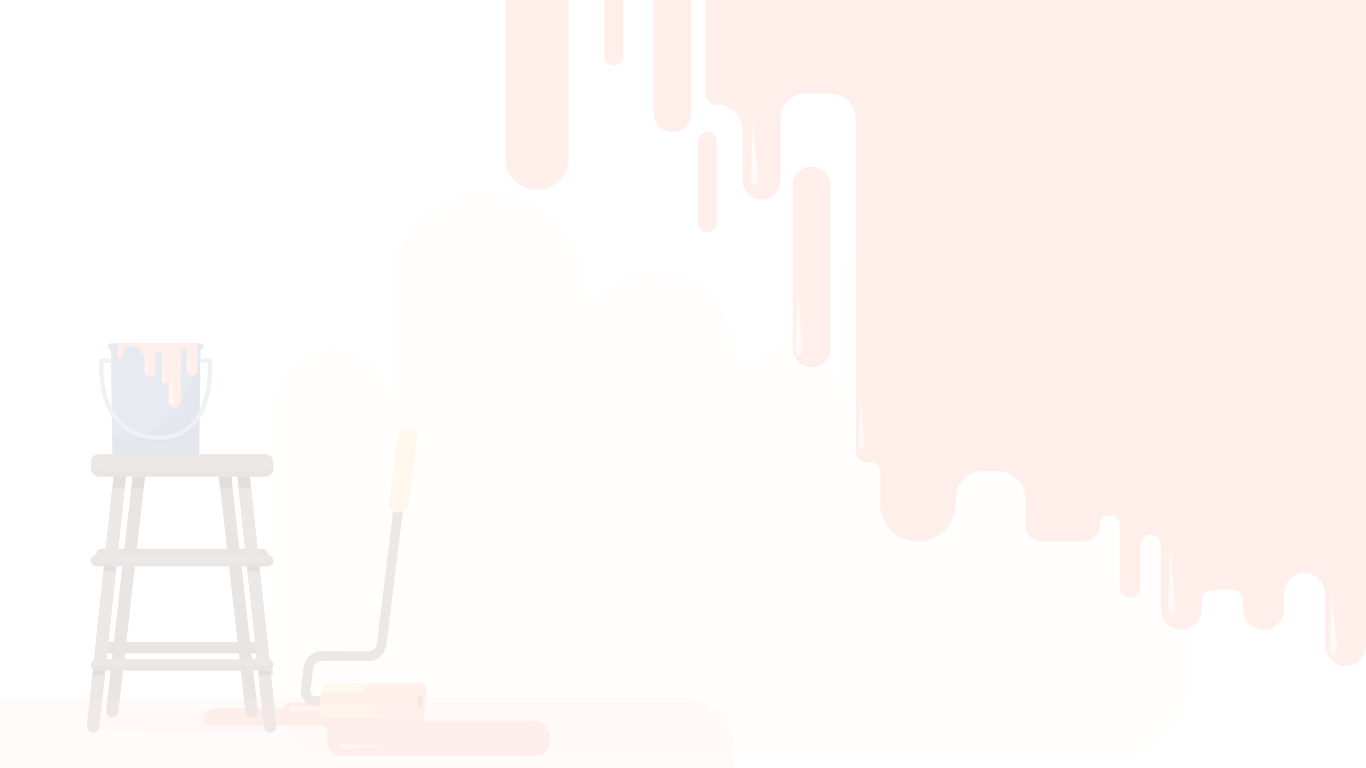
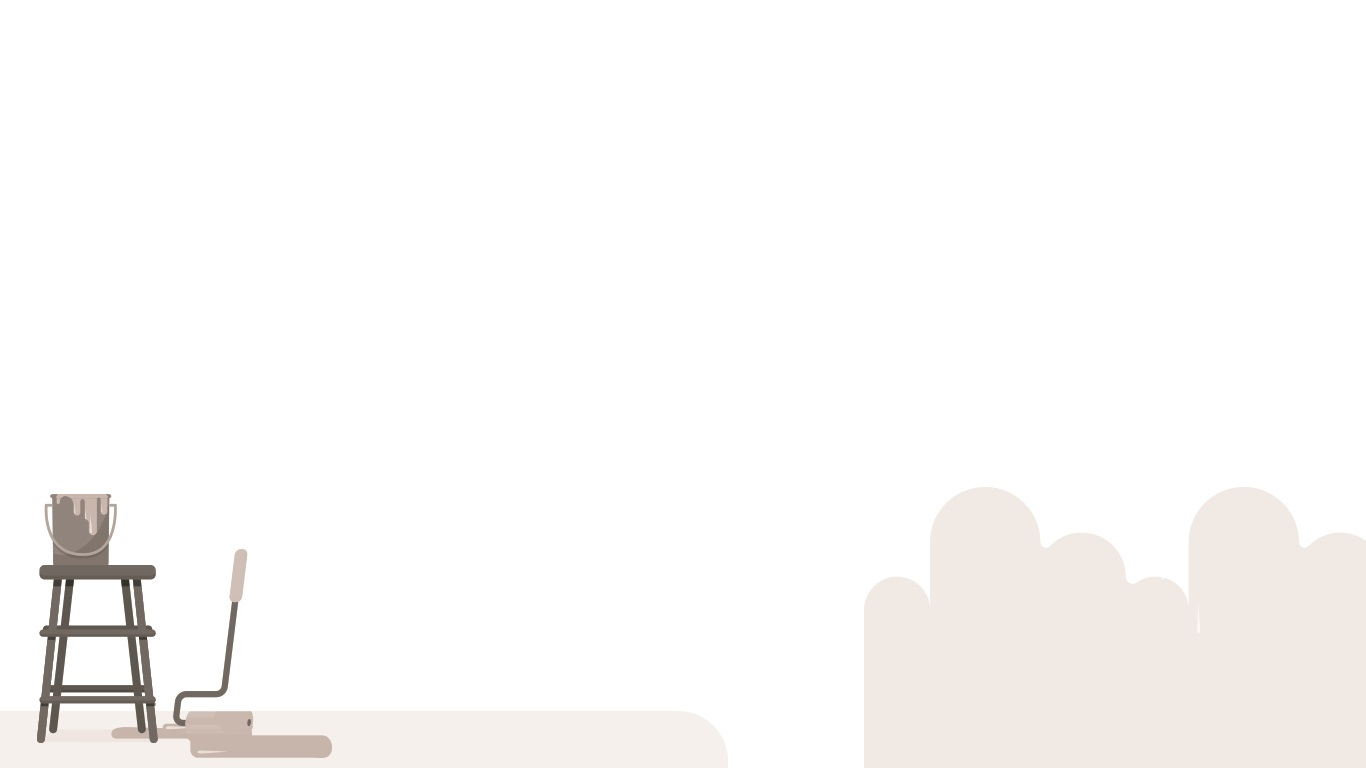
Perbaikan desain

diff --git a/public/css/style.css b/public/css/style.css
@@ -1,7 +1,20 @@
 body {
     background: url('../img/bg-main.jpg') no-repeat;
-    background-position: center;
+    background-position: bottom;
     background-size: cover;
+    background-attachment: fixed;
+}
+
+.navbar-nav .nav-item {
+    color: rgb(73, 73, 73) !important;
+}
+
+.navbar-nav a:hover {
+    border-bottom: 2px solid #3498db;
+}
+
+.navbar-trans {
+    background-color: rgba(255, 255, 255, 0.6) !important;
 }
 
 /* card */
@@ -47,13 +60,16 @@ body {
     float: left;
     width: 50%;
     height: 400px;
-    background: url('/img/bg-cab.jpg');
+    background: url('../img/bg-main2.jpg') no-repeat;
+    background-position: bottom;
+    background-size: cover;
     background-repeat: no-repeat;
     background-size: cover;
     background-position: center;
     display: grid;
     align-items: center;
     padding: 2%;
+    color: #fff;
 }
 
 .col-pnm {

diff --git a/resources/views/frontend/score-detail.blade.php b/resources/views/frontend/score-detail.blade.php
@@ -5,9 +5,9 @@
 @section('content')
     <div class="container" style="margin-top:2%">
         <div class="row">
-            <div class="co-12">
-                <h1 class="display-4">Scoreboard Penjualan</h1>
-                <p class="lead">Update Terakhir : {{ date('d F Y, H:i:s', strtotime($setting->last_update_score)) }}</p>
+            <div class="co-12 font-weight-bold">
+                <h1 class="display-4 font-weight-bold">Scoreboard Penjualan</h1>
+                <p class="lead font-weight-bold">Update Terakhir : {{ date('d F Y, H:i:s', strtotime($setting->last_update_score)) }}</p>
                 
                 <!-- last update -->
                 @if($diff > 0)

diff --git a/resources/views/frontend/score.blade.php b/resources/views/frontend/score.blade.php
@@ -5,9 +5,9 @@
 @section('content')
     <div class="container" style="margin-top:2%">
         <div class="row">
-            <div class="co-12">
-                <h1 class="display-4">Scoreboard Penjualan</h1>
-                <p class="lead">Update Terakhir : {{ date('d F Y, H:i:s', strtotime($setting->last_update_score)) }}</p>
+            <div class="co-12 font-weight-bold">
+                <h1 class="display-4 font-weight-bold">Scoreboard Penjualan</h1>
+                <p class="lead font-weight-bold">Update Terakhir : {{ date('d F Y, H:i:s', strtotime($setting->last_update_score)) }}</p>
                 
                 <!-- last update -->
                 @if($diff > 0)

diff --git a/resources/views/frontend/login.blade.php b/resources/views/frontend/login.blade.php
@@ -46,8 +46,8 @@
                 </div>
                 <div class="box-right">
                     <div class="text-custom">
-                        <h3 class="display-4">PORTAL CWJA</h3>
-                        <p class="lead text-bold">PT. CITRA WARNA JAYA ABADI</p>
+                        <h3 class="display-3 font-weight-bold" style="font-size:4em">PORTAL CWJA</h3>
+                        <p class="lead text-bold" style="">PT. CITRA WARNA JAYA ABADI</p>
                     </div>
                 </div>
             </div>

diff --git a/resources/views/frontend/index.blade.php b/resources/views/frontend/index.blade.php
@@ -6,7 +6,7 @@
     <div class="container" style="margin-top:2%">
         <div class="row">
             <div class="co-12">
-                <h1 class="display-4">Pengumuman <span class="badge badge-secondary">Internal CWJA</span></h1>
+                <h1 class="display-4 font-weight-bold">Pengumuman <span class="badge badge-secondary">Internal CWJA</span></h1>
                 <hr class="hr-yellow">
             </div>
         </div>

diff --git a/resources/views/frontend/master.blade.php b/resources/views/frontend/master.blade.php
@@ -18,7 +18,7 @@
     </head>
     <body>
         <!-- navbar -->
-        <nav class="navbar navbar-expand-lg navbar-light bg-light">
+        <nav class="navbar navbar-expand-lg navbar-light navbar-trans">
             <div class="container">
                 <a class="navbar-brand font-weight-bold" href="{{ url('/') }}">
                     <img src="{{ asset('img/logo-cwa.png') }}" width="38" class="d-inline-block align-top" alt="">
